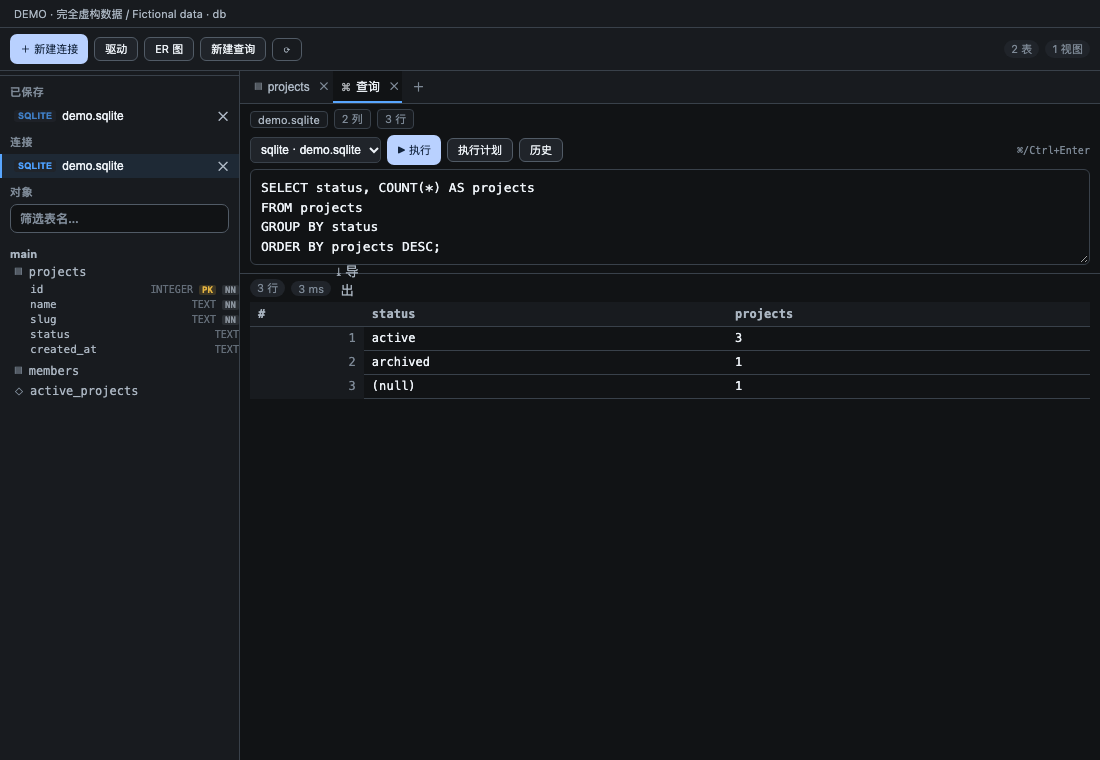
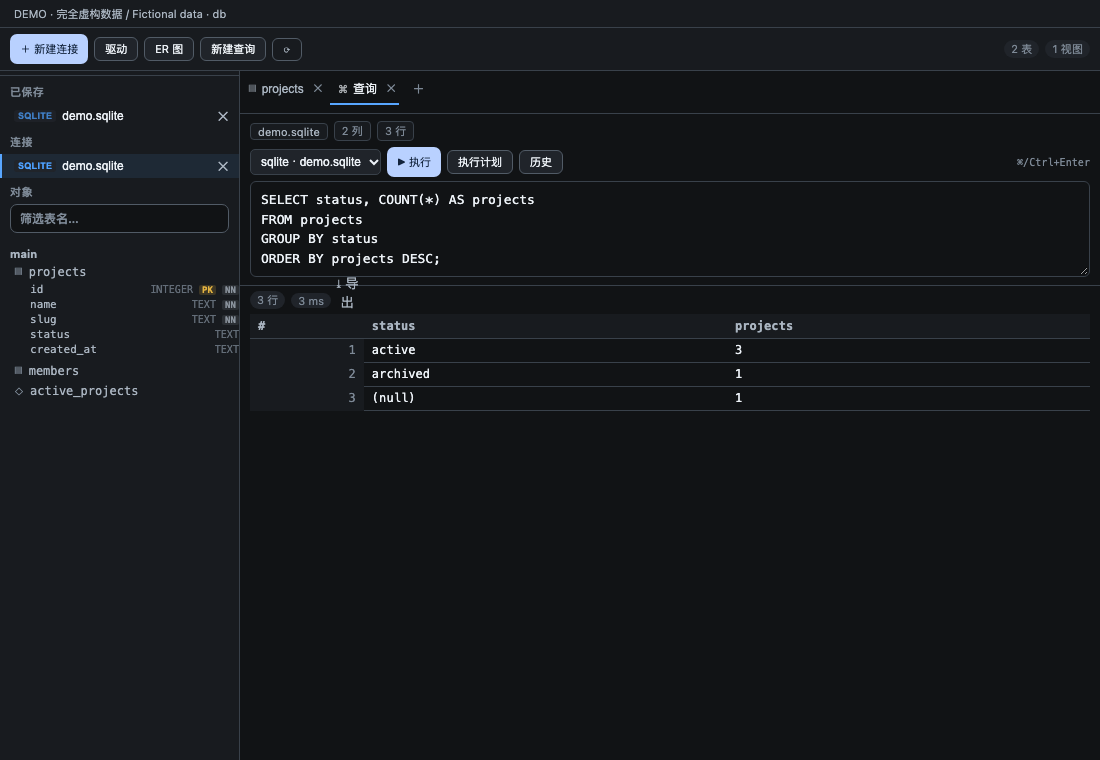
fix(db): give the wizard its own tab styles, unwrap the header, unify colours and shorten the reason line

diff --git a/client.js b/client.js
@@ -8978,7 +8978,14 @@ var CSS2 = `
 .cedb-conn-select{height:26px;font-size:12px;max-width:240px;background:var(--dsw-alias-bg-layer-2,#22262c);color:var(--dsw-alias-label-primary,#dde);border:.5px solid var(--dsw-alias-border-l1,#333);border-radius:5px;padding:0 6px}
 .cedb-run{flex:none}
 .cedb-kbd{font-size:10px;color:var(--dsw-alias-label-tertiary,#667);font-family:ui-monospace,SFMono-Regular,Menlo,monospace}
-.cedb-dialog-head{display:flex;align-items:center;gap:8px}
+.cedb-dialog-head{display:flex;align-items:center;gap:8px;flex-wrap:nowrap;min-width:0}
+.cedb-dialog-head .cedb-dialog-title{white-space:nowrap;overflow:hidden;text-overflow:ellipsis;margin:0}
+.cedb-dialog-head .ce-tool{flex:0 0 auto}
+.cedb-wtabs{display:flex;gap:4px;padding:2px 0 8px;margin-bottom:2px;border-bottom:.5px solid var(--dsw-alias-border-l1,#2a2e35)}
+.cedb-wtab{display:inline-flex;align-items:center;gap:5px;padding:5px 10px;border:0;border-radius:6px;background:transparent;color:var(--dsw-alias-label-secondary,#aab);font-size:12px;cursor:pointer;white-space:nowrap}
+.cedb-wtab:hover{background:var(--dsw-alias-interactive-bg-hover,#2a2e35);color:var(--dsw-alias-label-primary,#dde)}
+.cedb-wtab-on{background:var(--dsw-alias-bg-layer-1,#1d2126);color:var(--dsw-alias-label-primary,#fff);box-shadow:inset 0 -2px 0 var(--dsw-alias-button-info-fill,#58a6ff)}
+.cedb-wtab-dot{width:6px;height:6px;border-radius:50%;background:var(--dsw-alias-button-info-fill,#58a6ff)}
 .cedb-pick-tools{display:flex;align-items:center;gap:6px;margin-bottom:10px;flex-wrap:wrap}
 .cedb-pick-tools .ce-input{flex:1 1 200px;height:30px}
 .cedb-cat{padding:4px 10px;border-radius:999px;border:.5px solid var(--dsw-alias-border-l1,#2a2e35);background:transparent;color:var(--dsw-alias-label-secondary,#aab);font-size:11px;cursor:pointer}
@@ -8992,9 +8999,11 @@ var CSS2 = `
 .cedb-pick-glyph{display:flex;align-items:center;justify-content:center;width:38px;height:38px;border-radius:10px;background:var(--dsw-alias-bg-base,#141618);font-size:12px;font-weight:700;letter-spacing:.5px}
 .cedb-pick-label{font-size:12px;font-weight:600}
 .cedb-pick-note{font-size:10px;color:var(--dsw-alias-label-tertiary,#778);text-align:center;max-width:100%;overflow:hidden;text-overflow:ellipsis;white-space:nowrap}
-.cedb-colors{display:flex;gap:4px;align-items:center;height:30px}
+.cedb-colors{display:flex;gap:6px;align-items:center;height:30px}
+.cedb-colors .cedb-color{width:18px;height:18px}
 .cedb-color{width:16px;height:16px;border-radius:50%;border:.5px solid var(--dsw-alias-border-l1,#39414a);cursor:pointer;padding:0}
 .cedb-color-none{background:transparent;position:relative}
+.cedb-color-none::after{content:"";position:absolute;inset:2px;border-radius:50%;border-top:1.5px solid var(--dsw-alias-label-tertiary,#778);transform:rotate(45deg)}
 .cedb-color-on{outline:2px solid var(--dsw-alias-button-info-fill,#58a6ff);outline-offset:1px}
 .cedb-password{display:flex;align-items:center;gap:4px}
 .cedb-password .ce-input{flex:1 1 auto;min-width:0}
@@ -13970,7 +13979,7 @@ function DbView({ t, useTabInfo, sessionId, useSessions }) {
         { className: "cedb-main" },
         h(
           "div",
-          { className: "cedb-tabs", role: "tablist" },
+          { className: "cedb-wtabs", role: "tablist" },
           tabs.map((tab2) => h(
             "div",
             { key: tab2.id, className: `cedb-tab${tab2.id === activeTabId ? " cedb-tab-on" : ""}` },
@@ -14251,7 +14260,7 @@ function DbView({ t, useTabInfo, sessionId, useSessions }) {
       ) : h(
         Fragment,
         null,
-        h("div", { className: "cedb-tabs", role: "tablist" }, [
+        h("div", { className: "cedb-wtabs", role: "tablist" }, [
           ["info", "db.tabInfo"],
           ["tls", "db.tabTls"],
           ["tunnel", "db.tabTunnel"],
@@ -14263,12 +14272,12 @@ function DbView({ t, useTabInfo, sessionId, useSessions }) {
             type: "button",
             role: "tab",
             "aria-selected": tab === id,
-            className: `cedb-tab${tab === id ? " cedb-tab-on" : ""}`,
+            className: `cedb-wtab${tab === id ? " cedb-wtab-on" : ""}`,
             onClick: () => setTab(id)
           },
           t(key),
-          id === "tls" && String(form.sslMode ?? "") !== "" ? h("span", { className: "cedb-tab-dot" }) : null,
-          id === "tunnel" && String(form.tunnelHost ?? "").trim() !== "" ? h("span", { className: "cedb-tab-dot" }) : null
+          id === "tls" && String(form.sslMode ?? "") !== "" ? h("span", { className: "cedb-wtab-dot" }) : null,
+          id === "tunnel" && String(form.tunnelHost ?? "").trim() !== "" ? h("span", { className: "cedb-wtab-dot" }) : null
         ))),
         tab === "info" ? h(
           Fragment,

diff --git a/src/client/styles.js b/src/client/styles.js
@@ -457,7 +457,14 @@ export const CSS = `
 .cedb-conn-select{height:26px;font-size:12px;max-width:240px;background:var(--dsw-alias-bg-layer-2,#22262c);color:var(--dsw-alias-label-primary,#dde);border:.5px solid var(--dsw-alias-border-l1,#333);border-radius:5px;padding:0 6px}
 .cedb-run{flex:none}
 .cedb-kbd{font-size:10px;color:var(--dsw-alias-label-tertiary,#667);font-family:ui-monospace,SFMono-Regular,Menlo,monospace}
-.cedb-dialog-head{display:flex;align-items:center;gap:8px}
+.cedb-dialog-head{display:flex;align-items:center;gap:8px;flex-wrap:nowrap;min-width:0}
+.cedb-dialog-head .cedb-dialog-title{white-space:nowrap;overflow:hidden;text-overflow:ellipsis;margin:0}
+.cedb-dialog-head .ce-tool{flex:0 0 auto}
+.cedb-wtabs{display:flex;gap:4px;padding:2px 0 8px;margin-bottom:2px;border-bottom:.5px solid var(--dsw-alias-border-l1,#2a2e35)}
+.cedb-wtab{display:inline-flex;align-items:center;gap:5px;padding:5px 10px;border:0;border-radius:6px;background:transparent;color:var(--dsw-alias-label-secondary,#aab);font-size:12px;cursor:pointer;white-space:nowrap}
+.cedb-wtab:hover{background:var(--dsw-alias-interactive-bg-hover,#2a2e35);color:var(--dsw-alias-label-primary,#dde)}
+.cedb-wtab-on{background:var(--dsw-alias-bg-layer-1,#1d2126);color:var(--dsw-alias-label-primary,#fff);box-shadow:inset 0 -2px 0 var(--dsw-alias-button-info-fill,#58a6ff)}
+.cedb-wtab-dot{width:6px;height:6px;border-radius:50%;background:var(--dsw-alias-button-info-fill,#58a6ff)}
 .cedb-pick-tools{display:flex;align-items:center;gap:6px;margin-bottom:10px;flex-wrap:wrap}
 .cedb-pick-tools .ce-input{flex:1 1 200px;height:30px}
 .cedb-cat{padding:4px 10px;border-radius:999px;border:.5px solid var(--dsw-alias-border-l1,#2a2e35);background:transparent;color:var(--dsw-alias-label-secondary,#aab);font-size:11px;cursor:pointer}
@@ -471,9 +478,11 @@ export const CSS = `
 .cedb-pick-glyph{display:flex;align-items:center;justify-content:center;width:38px;height:38px;border-radius:10px;background:var(--dsw-alias-bg-base,#141618);font-size:12px;font-weight:700;letter-spacing:.5px}
 .cedb-pick-label{font-size:12px;font-weight:600}
 .cedb-pick-note{font-size:10px;color:var(--dsw-alias-label-tertiary,#778);text-align:center;max-width:100%;overflow:hidden;text-overflow:ellipsis;white-space:nowrap}
-.cedb-colors{display:flex;gap:4px;align-items:center;height:30px}
+.cedb-colors{display:flex;gap:6px;align-items:center;height:30px}
+.cedb-colors .cedb-color{width:18px;height:18px}
 .cedb-color{width:16px;height:16px;border-radius:50%;border:.5px solid var(--dsw-alias-border-l1,#39414a);cursor:pointer;padding:0}
 .cedb-color-none{background:transparent;position:relative}
+.cedb-color-none::after{content:"";position:absolute;inset:2px;border-radius:50%;border-top:1.5px solid var(--dsw-alias-label-tertiary,#778);transform:rotate(45deg)}
 .cedb-color-on{outline:2px solid var(--dsw-alias-button-info-fill,#58a6ff);outline-offset:1px}
 .cedb-password{display:flex;align-items:center;gap:4px}
 .cedb-password .ce-input{flex:1 1 auto;min-width:0}

diff --git a/src/client/db.js b/src/client/db.js
@@ -723,7 +723,7 @@ export function DbView({ t, useTabInfo, sessionId, useSessions }) {
 			),
 			// ---- main ------------------------------------------------------------------
 			h("section", { className: "cedb-main" },
-				h("div", { className: "cedb-tabs", role: "tablist" },
+				h("div", { className: "cedb-wtabs", role: "tablist" },
 					tabs.map((tab) => h("div", { key: tab.id, className: `cedb-tab${tab.id === activeTabId ? " cedb-tab-on" : ""}` },
 						h("button", { type: "button", className: "cedb-tab-label", role: "tab", "aria-selected": tab.id === activeTabId, onClick: () => setActiveTabId(tab.id), title: tab.kind === "table" ? `${tab.table} · ${tab.database}` : tab.sql },
 							h("span", { className: "cedb-tab-kind" }, tab.kind === "table" ? "▤" : "⌘"),
@@ -945,7 +945,7 @@ export function DbView({ t, useTabInfo, sessionId, useSessions }) {
 						h("span", { className: "cedb-pick-note" }, known?.ready ? (known.bin || known.version || t("db.notReady")) : (known?.note ?? "")));
 					})))
 					: h(Fragment, null,
-						h("div", { className: "cedb-tabs", role: "tablist" }, [
+						h("div", { className: "cedb-wtabs", role: "tablist" }, [
 							["info", "db.tabInfo"],
 							["tls", "db.tabTls"],
 							["tunnel", "db.tabTunnel"],
@@ -955,11 +955,11 @@ export function DbView({ t, useTabInfo, sessionId, useSessions }) {
 							type: "button",
 							role: "tab",
 							"aria-selected": tab === id,
-							className: `cedb-tab${tab === id ? " cedb-tab-on" : ""}`,
+							className: `cedb-wtab${tab === id ? " cedb-wtab-on" : ""}`,
 							onClick: () => setTab(id),
 						}, t(key),
-						id === "tls" && String(form.sslMode ?? "") !== "" ? h("span", { className: "cedb-tab-dot" }) : null,
-						id === "tunnel" && String(form.tunnelHost ?? "").trim() !== "" ? h("span", { className: "cedb-tab-dot" }) : null))),
+						id === "tls" && String(form.sslMode ?? "") !== "" ? h("span", { className: "cedb-wtab-dot" }) : null,
+						id === "tunnel" && String(form.tunnelHost ?? "").trim() !== "" ? h("span", { className: "cedb-wtab-dot" }) : null))),
 						tab === "info"
 							? h(Fragment, null,
 								h("label", { className: "cedb-field" }, t("db.pasteAddress"),

diff --git a/lib/host/drivers.js b/lib/host/drivers.js
@@ -180,12 +180,20 @@ export async function driverCatalog(options = {}) {
 			impl: preferred?.impl ?? "",
 			bin: preferred?.bin ?? "",
 			version: preferred?.version ?? "",
-			note: preferred?.note ?? alternatives.map((entry) => entry.note).filter(Boolean).join(" · "),
+			// One sentence, not every alternative's complaint joined together: the
+			// actionable one wins (the one that says how to fix it).
+			note: preferred?.note ?? pickNote(alternatives),
 			capabilities: preferred?.capabilities ?? alternatives[0].capabilities,
 			alternatives,
 		});
 	}
 	return catalog;
+}
+
+/** The most useful "why not" sentence among a driver's implementations. */
+function pickNote(alternatives) {
+	const notes = alternatives.map((entry) => entry.note).filter(Boolean);
+	return notes.find((note) => /install it|client path|enable/.test(note)) ?? notes[0] ?? "";
 }
 
 /** The logical driver ids the catalog knows about. */

diff --git a/CHANGELOG.md b/CHANGELOG.md
@@ -1,5 +1,14 @@
 # Changelog
 
+## Unreleased — the wizard's chrome, fixed
+
+The first pass reused the panel's tab-strip class names, so the connection tabs inherited the query-tab styling (boxed, cramped) and every wizard rule I wrote was skipped by a name guard. Three other things read as broken in the same screenshot.
+
+- **The four tabs are their own component** (`.cedb-wtabs` / `.cedb-wtab`): a quiet segmented bar with a hover state and an accent underline for the active one, plus a dot when TLS or a tunnel is configured.
+- **The header no longer wraps**: title, engine chip and close stay on one row, and the chip truncates instead of pushing the ✕ to a second line.
+- **The colour swatches are uniform**, with the "no colour" option drawn as a slashed ring rather than an oversized empty circle.
+- **One reason, not a pile of them**: the driver catalog used to join every implementation's complaint (`mysql2 is not resolvable here · mysql client not found — …`). It now picks the actionable sentence, and the dialog shows it on one ellipsized line instead of a red paragraph.
+
 ## Unreleased — TLS, tunnels and the engine picker: the dbx dialog, made real
 
 - **Engine picker with search and categories**: the first step filters like dbx's — a search box plus 全部 / 关系型 / 文件 chips — and every card says which implementation will run or why it cannot.
